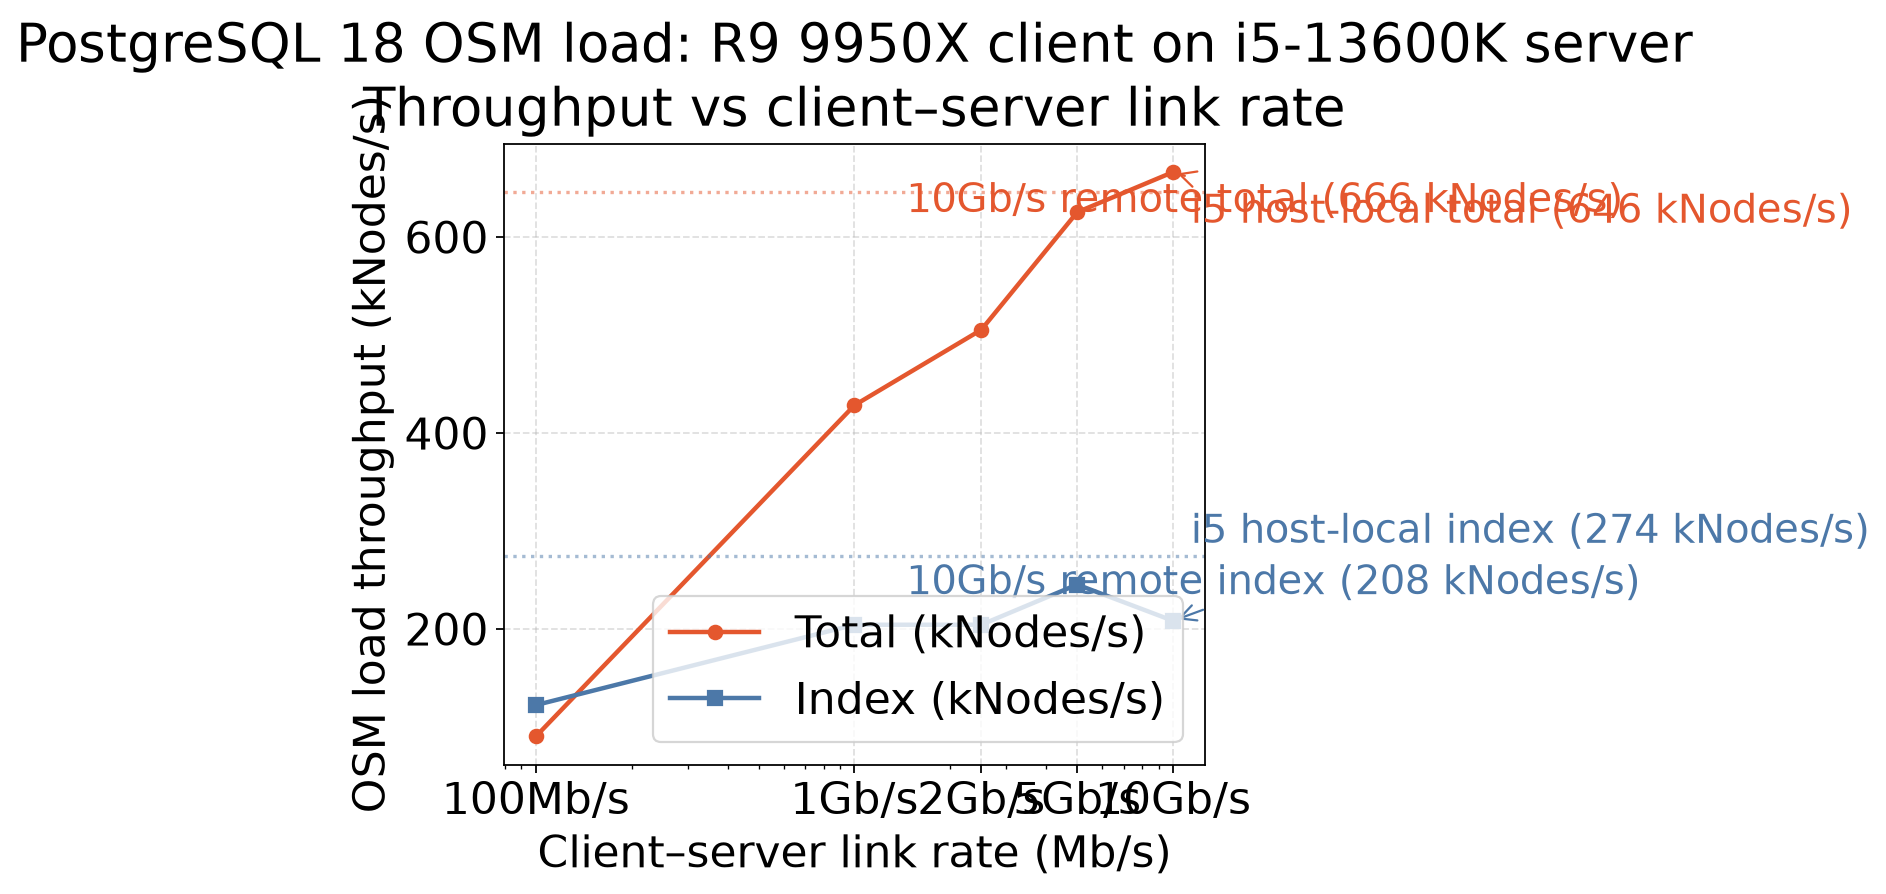
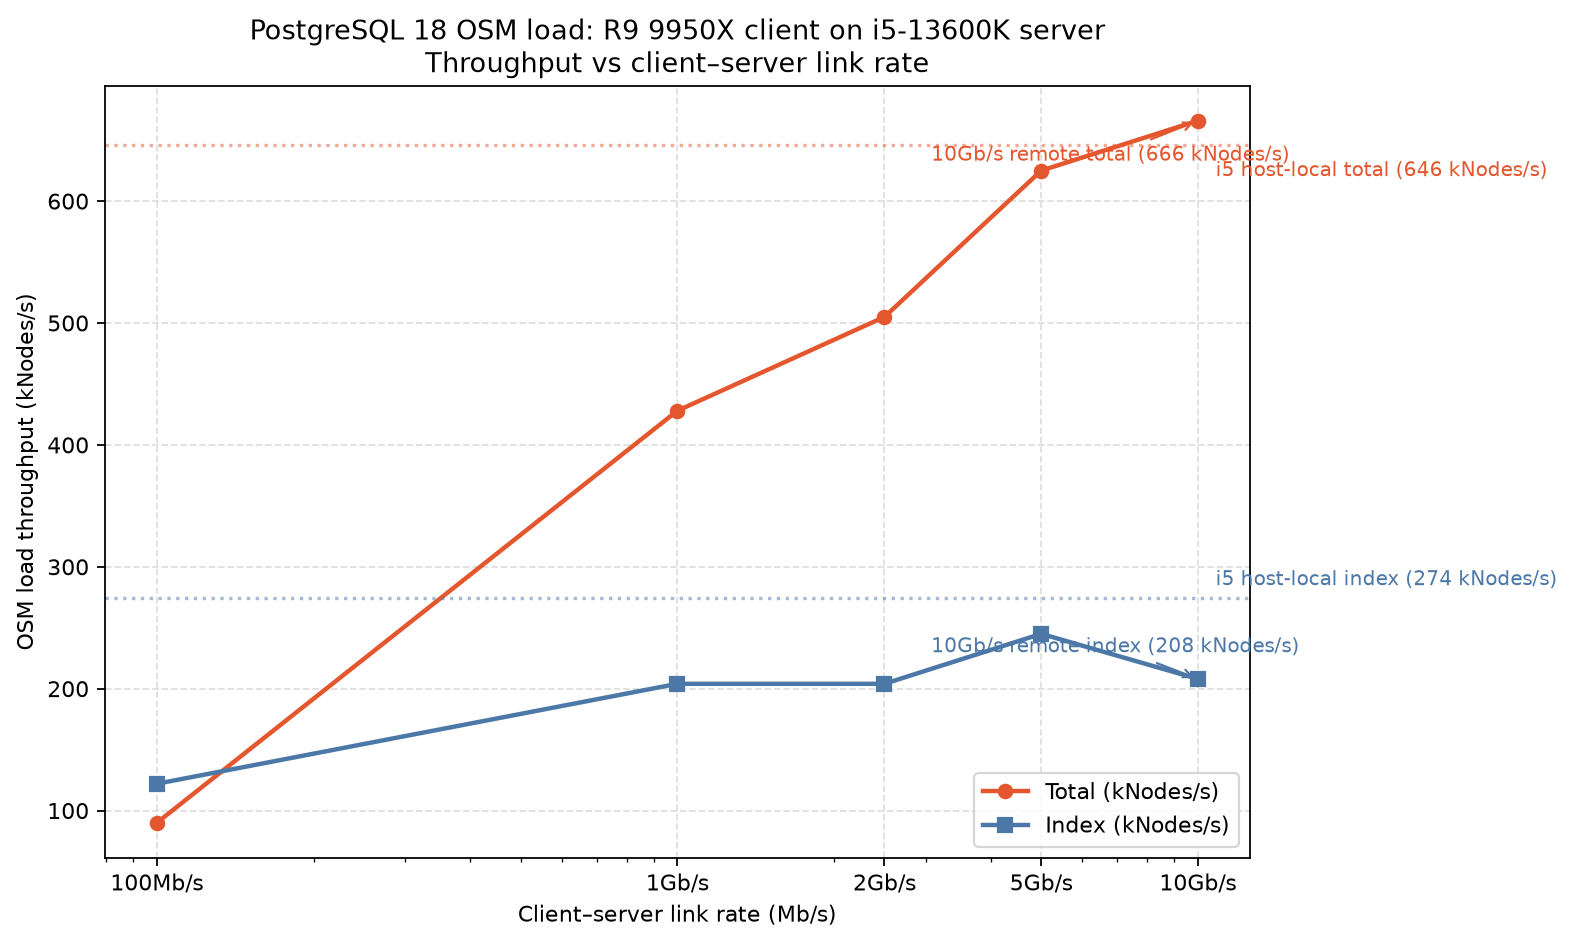
Restore original font sizes on PG18 checkpoint, network, and dirty-memory charts.
The 2× pg18_style typography crowded these line/scatter layouts; revert to pre-d52013e sizing and regenerate PNGs.

diff --git a/reports/osm-checkpoint.py b/reports/osm-checkpoint.py
@@ -22,11 +22,13 @@ from matplotlib.ticker import FixedLocator, NullLocator, ScalarFormatter
 
 sys.path.insert(0, str(Path(__file__).resolve().parent))
 from snapshot_table import load_snapshot_table
-from pg18_style import ANNOTATION_FONTSIZE, SMALL_ANNOTATION_FONTSIZE, use_pg18_style
 
 REPO_ROOT = Path(__file__).resolve().parents[1]
 DEFAULT_SNAPSHOT = REPO_ROOT / "docs/results-summary/pg18/osm-checkpoint.md"
 DEFAULT_OUTPUT = REPO_ROOT / "docs/images/pg18-osm-checkpoint.png"
+
+LABEL_FONTSIZE = 7
+LEGEND_FONTSIZE = 9
 
 NODES_COLOR = "#e4572e"
 INDEX_COLOR = "#4c78a8"
@@ -133,7 +135,7 @@ def plot_checkpoint(df: pd.DataFrame, output: Path, show: bool = False) -> None:
             xy=(row["chkp_mins"], row["nodes_kips"]),
             xytext=(8, 8),
             textcoords="offset points",
-            fontsize=SMALL_ANNOTATION_FONTSIZE,
+            fontsize=LABEL_FONTSIZE,
             color=WAL_COLORS[row["wal_level"]],
         )
 
@@ -149,7 +151,7 @@ def plot_checkpoint(df: pd.DataFrame, output: Path, show: bool = False) -> None:
         "Throughput vs achieved checkpoint interval"
     )
     ax.grid(True, which="major", linestyle="--", alpha=0.4)
-    ax.legend(loc="lower right")
+    ax.legend(loc="lower right", fontsize=LEGEND_FONTSIZE)
     plain_axis(ax, x=True)
 
     fig.tight_layout()
@@ -162,7 +164,6 @@ def plot_checkpoint(df: pd.DataFrame, output: Path, show: bool = False) -> None:
 
 
 def main() -> int:
-    use_pg18_style()
     args = parse_args()
     rows = load_snapshot_table(args.snapshot)
     if not rows:

diff --git a/reports/osm-network-speed.py b/reports/osm-network-speed.py
@@ -23,11 +23,12 @@ from matplotlib.ticker import ScalarFormatter
 
 sys.path.insert(0, str(Path(__file__).resolve().parent))
 from snapshot_table import conn_mbps, load_snapshot_table
-from pg18_style import ANNOTATION_FONTSIZE, use_pg18_style
 
 REPO_ROOT = Path(__file__).resolve().parents[1]
 DEFAULT_SNAPSHOT = REPO_ROOT / "docs/results-summary/pg18/osm-network.md"
 DEFAULT_OUTPUT = REPO_ROOT / "docs/images/pg18-osm-network-speed.png"
+
+ANNOTATION_FONTSIZE = 9
 
 
 def parse_args() -> argparse.Namespace:
@@ -143,7 +144,6 @@ def plot_connection_speed(df: pd.DataFrame, output: Path, show: bool = False) ->
 
 
 def main() -> int:
-    use_pg18_style()
     args = parse_args()
     rows = load_snapshot_table(args.snapshot)
     if not rows:

diff --git a/reports/osm-dirty-memory.py b/reports/osm-dirty-memory.py
@@ -21,11 +21,12 @@ from matplotlib.ticker import ScalarFormatter
 
 sys.path.insert(0, str(Path(__file__).resolve().parent))
 from snapshot_table import load_snapshot_table
-from pg18_style import ANNOTATION_FONTSIZE, use_pg18_style
 
 REPO_ROOT = Path(__file__).resolve().parents[1]
 DEFAULT_SNAPSHOT = REPO_ROOT / "docs/results-summary/pg18/osm-dirty-memory.md"
 DEFAULT_OUTPUT = REPO_ROOT / "docs/images/pg18-osm-dirty-memory.png"
+
+ANNOTATION_FONTSIZE = 9
 
 
 def parse_args() -> argparse.Namespace:
@@ -151,7 +152,6 @@ def plot_dirty_memory(df: pd.DataFrame, output: Path, show: bool = False) -> Non
 
 
 def main() -> int:
-    use_pg18_style()
     args = parse_args()
     rows = load_snapshot_table(args.snapshot)
     if not rows:
